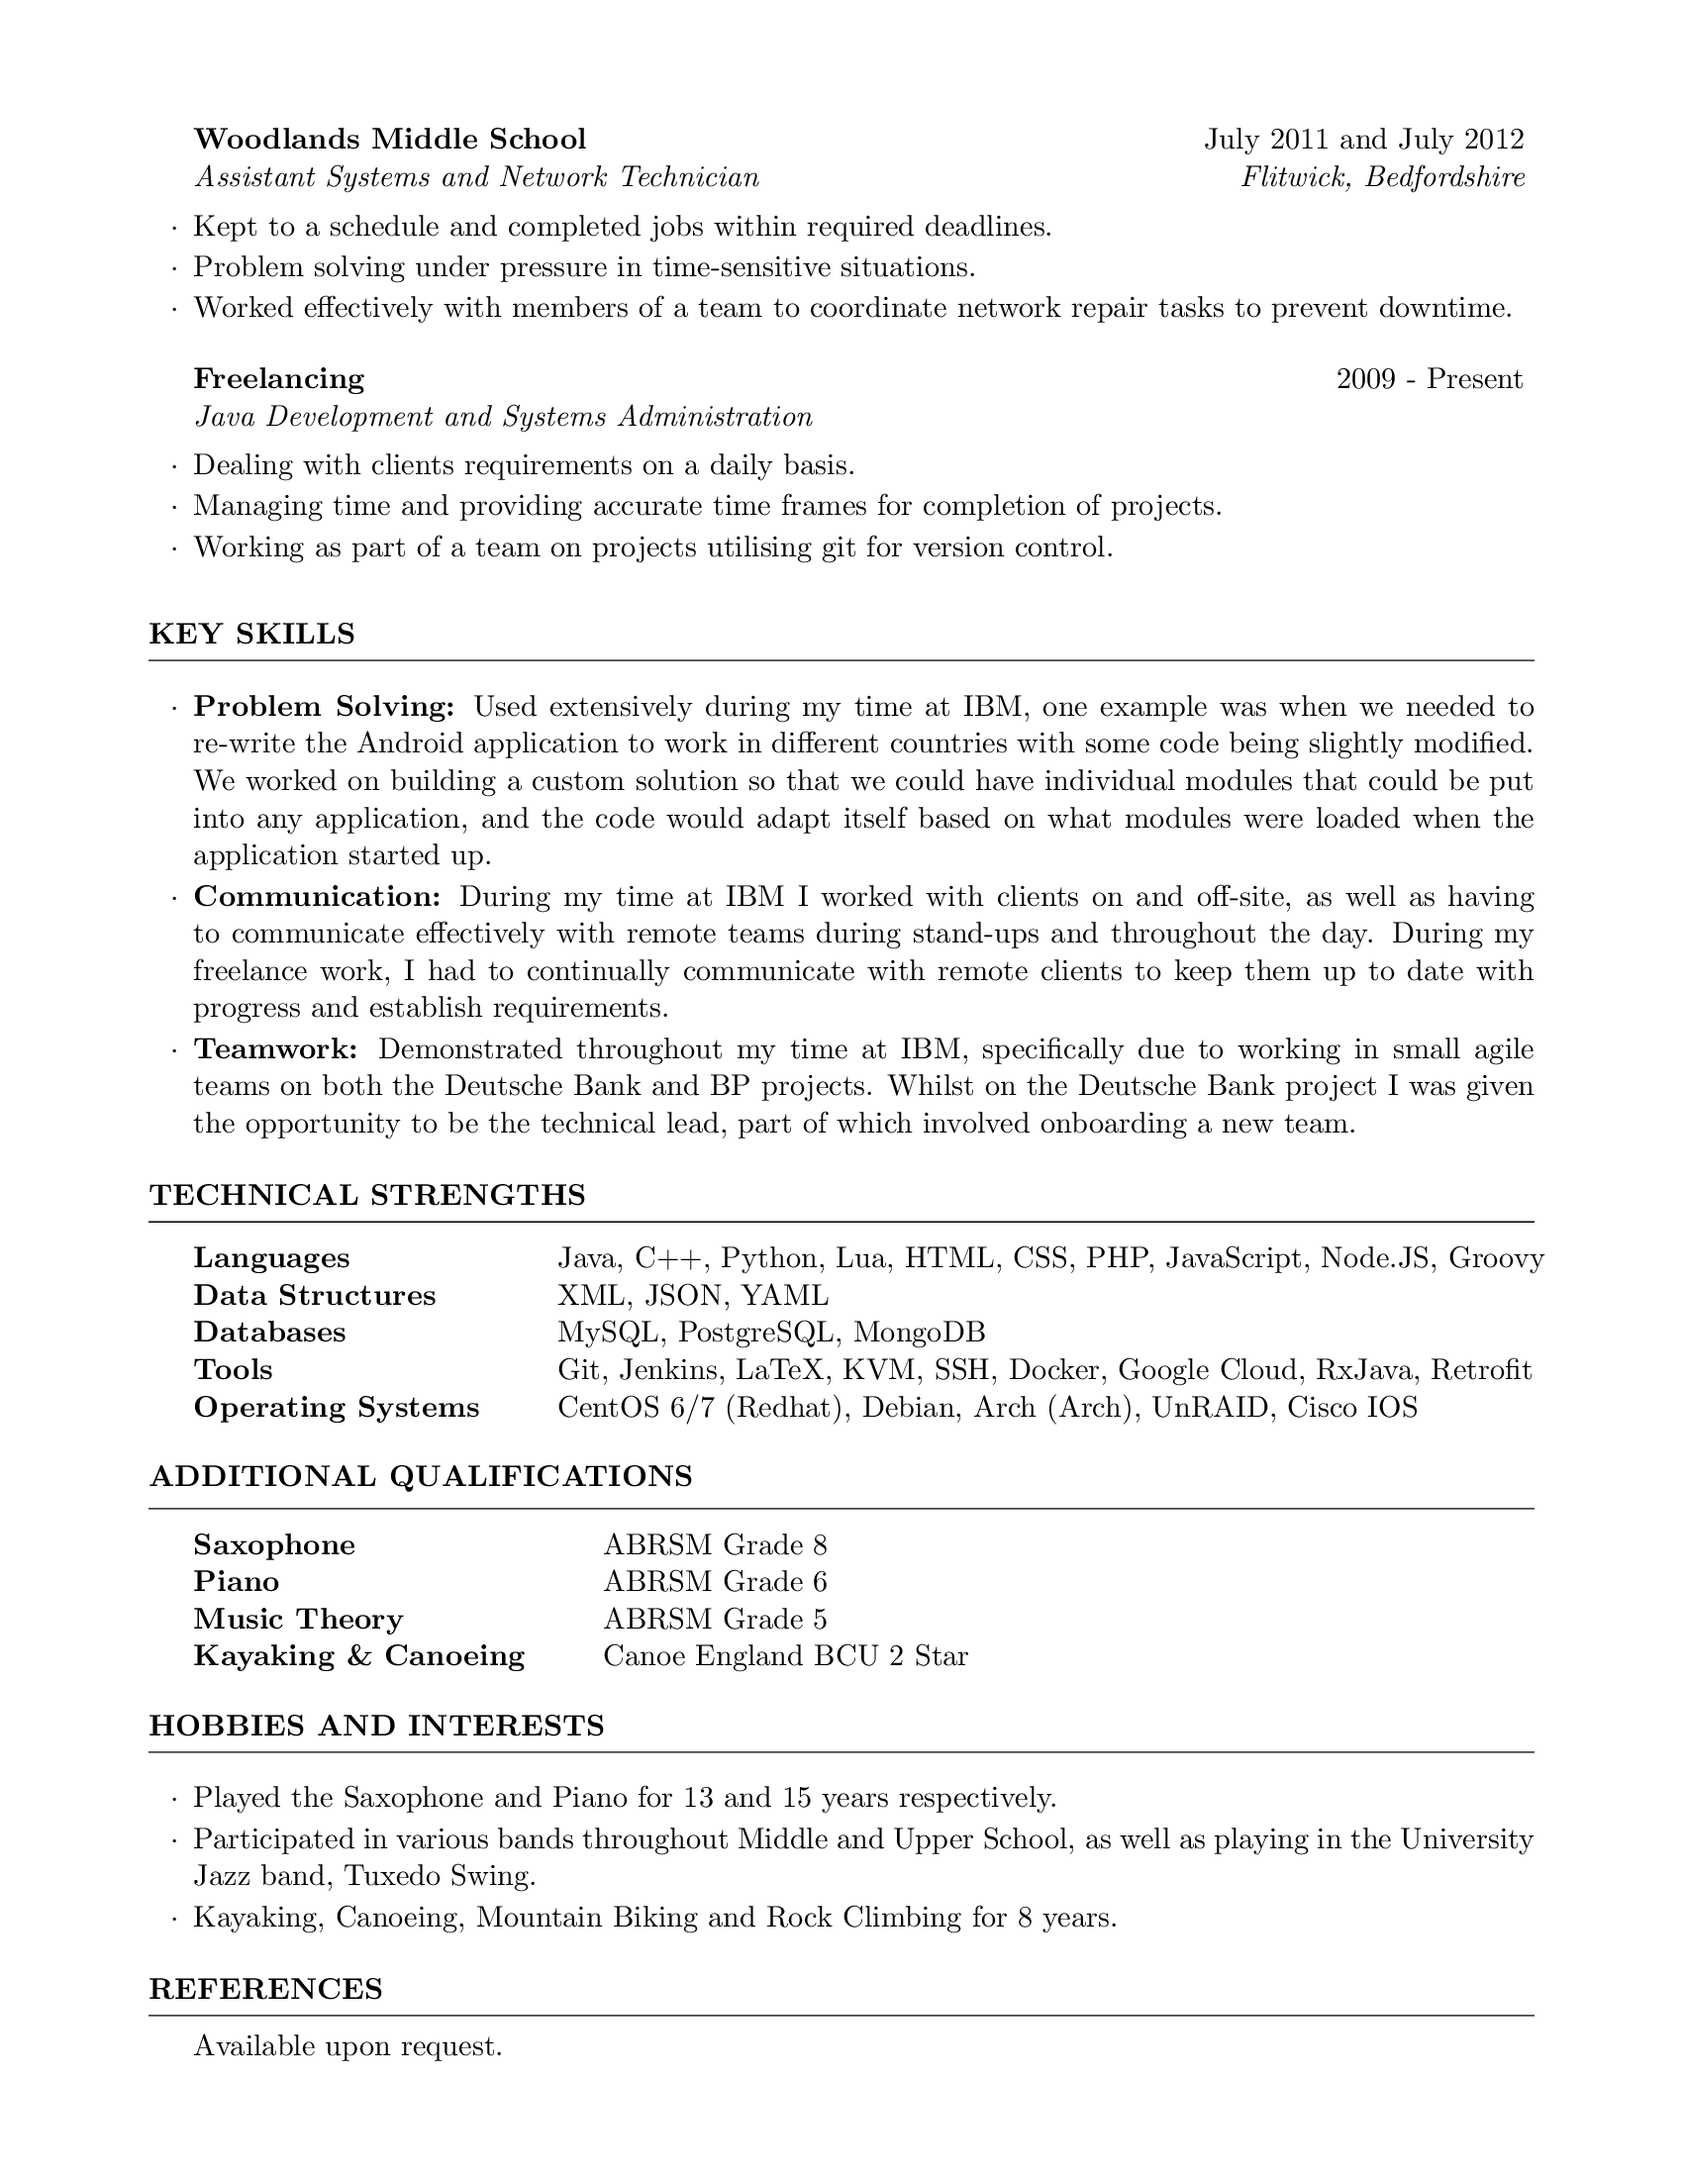
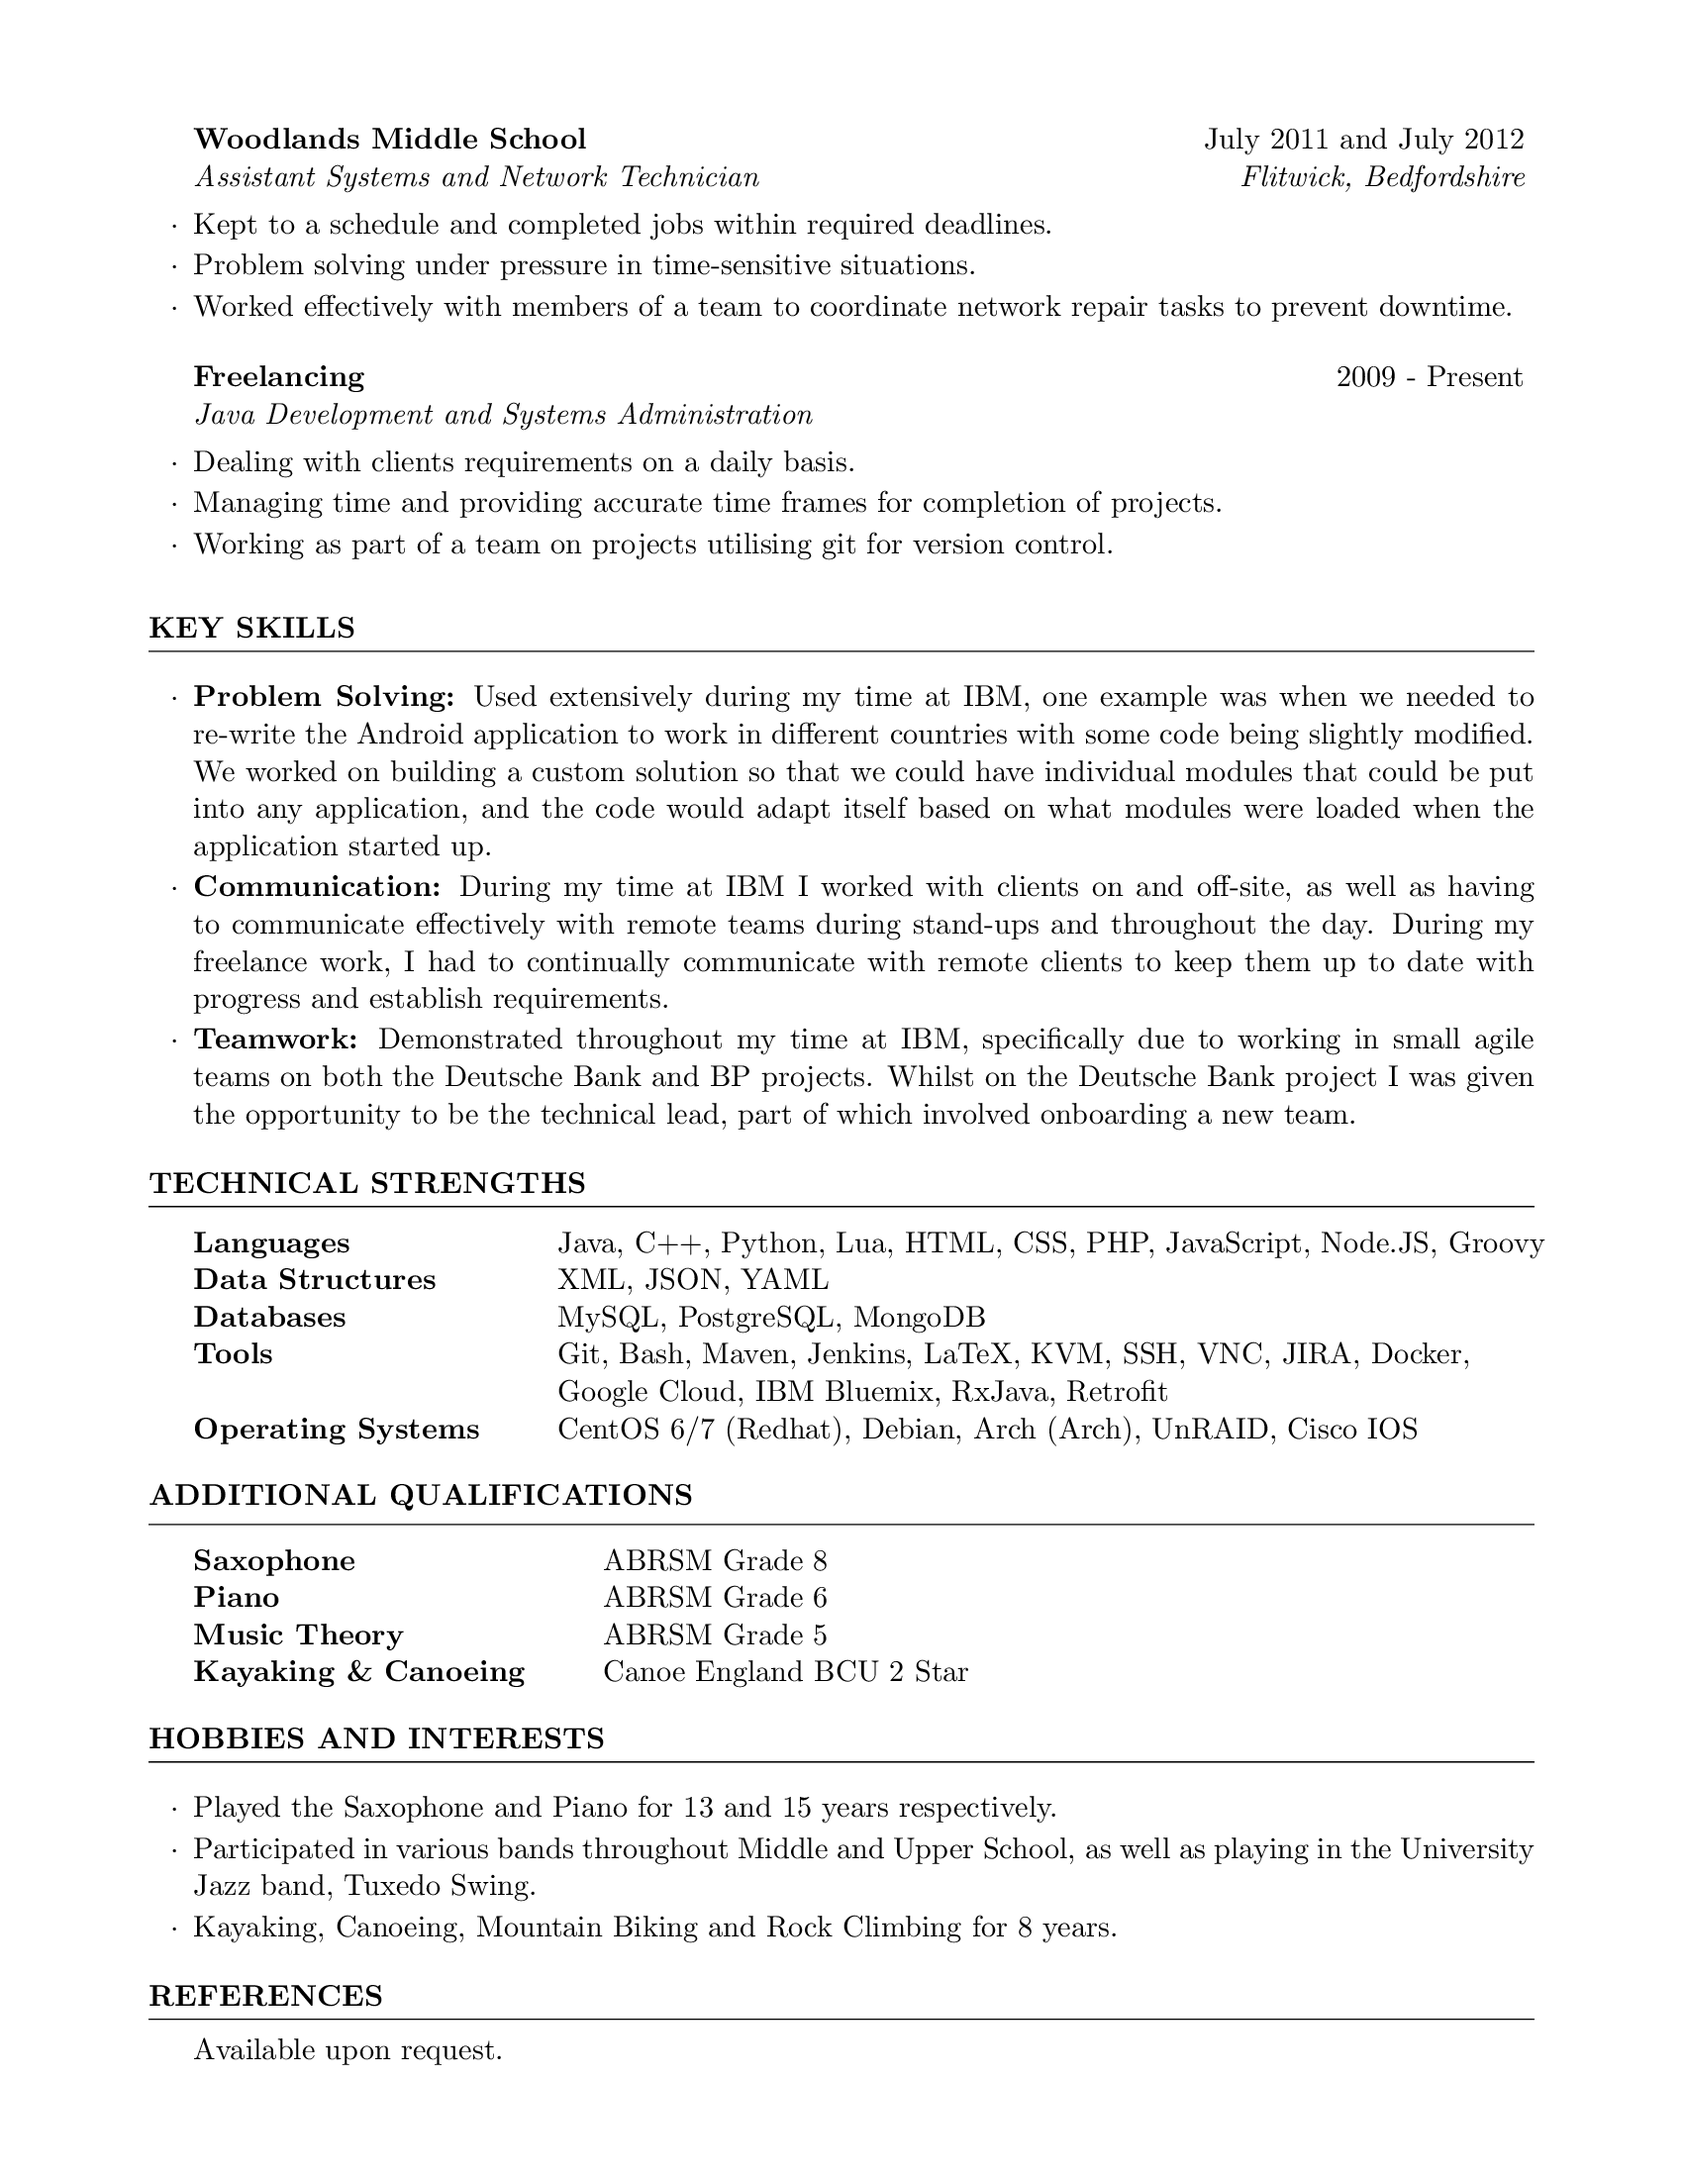
Update tools section

diff --git a/cv.tex b/cv.tex
@@ -37,7 +37,7 @@
 
 \begin {rSection}{Profile}
 
-A Loughborough University graduate with a 1st class BSc in Computer Science and 1-year experience as an intern at IBM iX, the worlds largest digital agency. Systems Administrator and Programmer with 9 years of experience, through both freelance work and employment. Primarily works using Java with varied experience in other languages including C++, Python and Node.JS.
+A Loughborough University graduate with a 1st class BSc in Computer Science and 1-year experience as an intern at IBM iX, the worlds largest digital agency. Systems Administrator and Programmer with 9 years of experience, through both freelance work and employment. Primarily works using Java with varied experience in other languages including C++, Python and Node.JS. Excited about learning more in this continually changing industry.
 
 \end{rSection}
 
@@ -122,7 +122,8 @@ Demonstrated throughout my time at IBM, specifically due to working in small agi
 Languages 	& Java, C++, Python, Lua, HTML, CSS, PHP, JavaScript, Node.JS, Groovy \\
 Data Structures & XML, JSON, YAML \\
 Databases & MySQL, PostgreSQL, MongoDB \\
-Tools 	& Git, Jenkins, LaTeX, KVM, SSH, Docker, Google Cloud, RxJava, Retrofit \\
+Tools 	& Git, Bash, Maven, Jenkins, LaTeX, KVM, SSH, VNC, JIRA, Docker,\\
+		& Google Cloud, IBM Bluemix, RxJava, Retrofit \\
 Operating Systems 	& CentOS 6/7 (Redhat), Debian, Arch (Arch), UnRAID, Cisco IOS
 \end{tabular}
 
